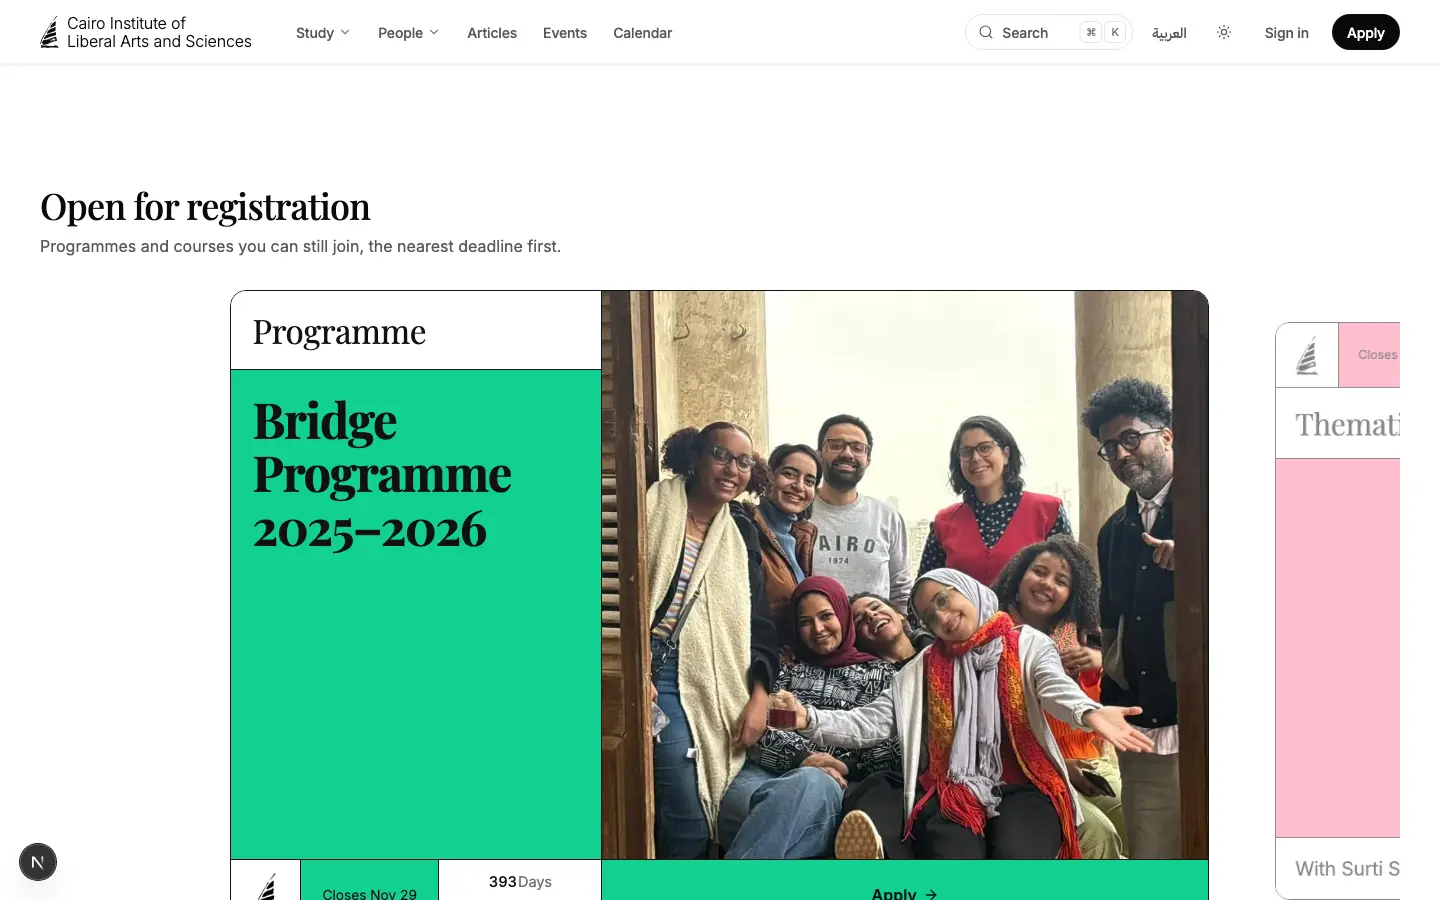
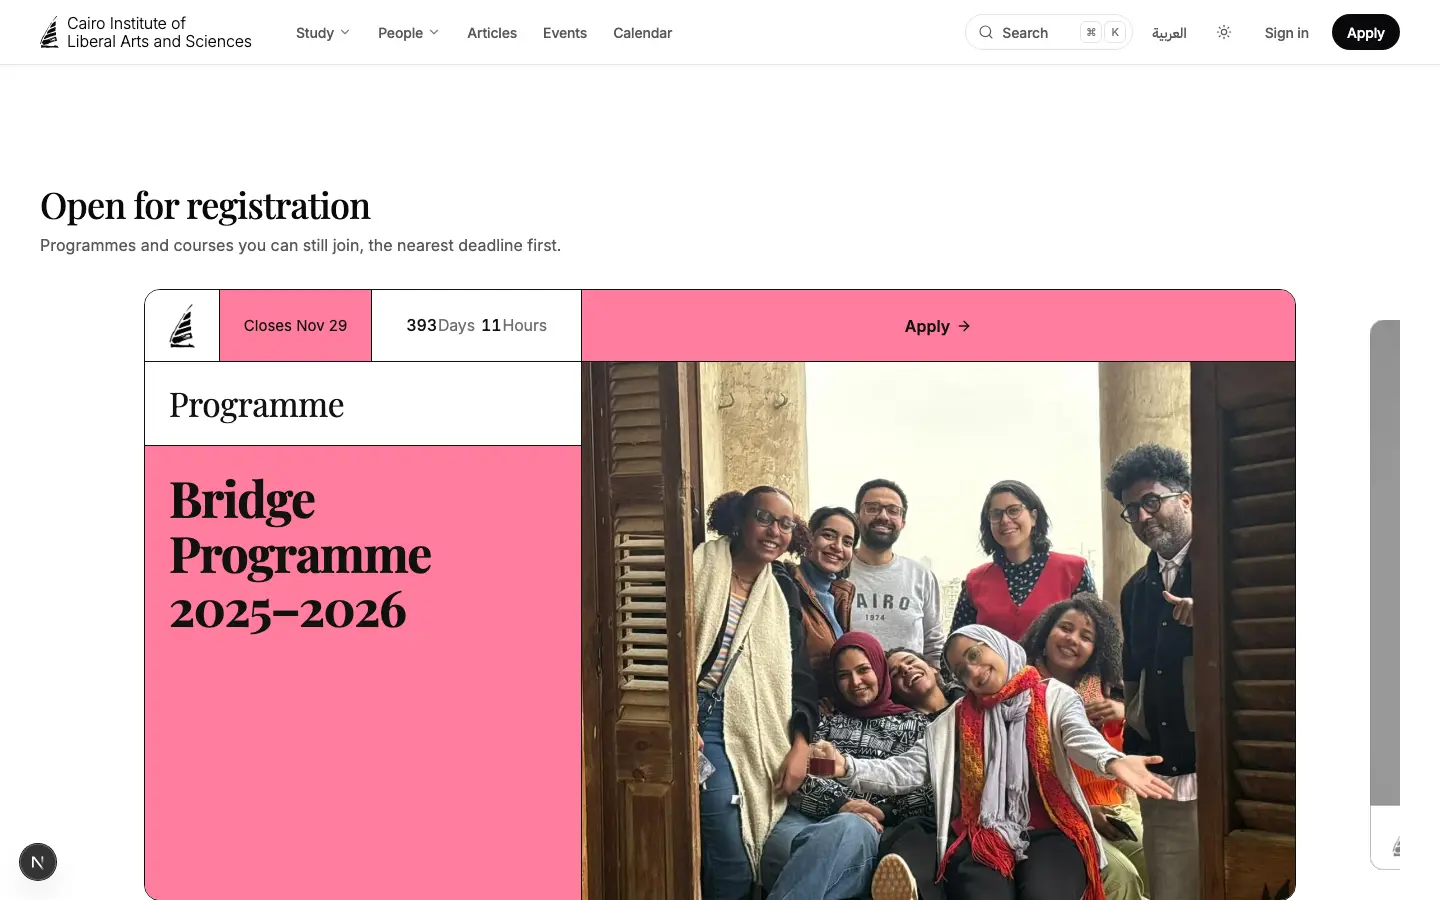
feat(home): wider open poster, time left on one line
The open-list poster grows to min(max(85cqw, 68rem), 72rem, 92cqw) from
64rem, so the time left fits on one line at 1280, 1440 and 1920, with
neighbours still peeking. Title, label and minimum height are capped at
their earlier sizes, so the card is no taller. Timer digits are tabular.

diff --git a/src/app/(frontend)/styles.css b/src/app/(frontend)/styles.css
@@ -2902,7 +2902,8 @@ h3 {
    the carousel, so the open list reads as a list and the card stays readable. */
 @media (min-width: 64rem) {
   .poster-carousel {
-    --poster-slide: min(72cqw, 62rem);
+    /* Wide enough for the time left on one line from 1280px up. */
+    --poster-slide: min(max(85cqw, 68rem), 72rem, 92cqw);
   }
 }
 /* Every grid between the slide and the card uses a zero-minimum column. An
@@ -2940,7 +2941,8 @@ h3 {
   color: var(--poster-ink);
   /* At least 16:9 of the frame's width, and taller when a long title or a
      translation needs it, so nothing in the panel is cut off. */
-  min-height: calc(100cqi * 9 / 16);
+  /* Capped, so a wide open-list poster is no taller than before it widened. */
+  min-height: min(calc(100cqi * 9 / 16), 34.5rem);
 }
 .poster-body {
   display: flex;
@@ -3000,7 +3002,9 @@ h3 {
 }
 .poster-title {
   font-family: var(--font-playfair-display), var(--font-amiri), serif;
-  font-size: clamp(1.75rem, 5cqi, 3.75rem);
+  /* The top equals 5cqi on a 62rem card, so a wider open-list poster keeps
+     its title size and does not grow taller. */
+  font-size: clamp(1.75rem, 5cqi, 3.1rem);
   font-weight: 700;
   line-height: 1.1;
   letter-spacing: -0.025em;
@@ -3091,7 +3095,7 @@ h3 {
 
 .poster-label {
   font-family: var(--font-heading);
-  font-size: clamp(1.25rem, 3.4cqi, 2.5rem);
+  font-size: clamp(1.25rem, 3.4cqi, 2.1rem);
   line-height: 1.05;
 }
 
@@ -3150,6 +3154,8 @@ h3 {
 .poster-time {
   display: flex;
   min-width: 0;
+  /* Fixed-width digits, so the cell does not shift as the time runs down. */
+  font-variant-numeric: tabular-nums;
   align-items: stretch;
   justify-content: center;
   border-inline-end: 1px solid var(--poster-ink);
@@ -3186,7 +3192,8 @@ h3 {
   flex: 1;
   min-width: 0;
   height: auto;
-  padding-inline: var(--poster-pad);
+  /* A smaller inset than the other cells, so the time left stays on one line. */
+  padding-inline: 0.625rem;
 }
 .poster .poster-time [data-variant='compact'] > div > div > span {
   flex-wrap: wrap;
